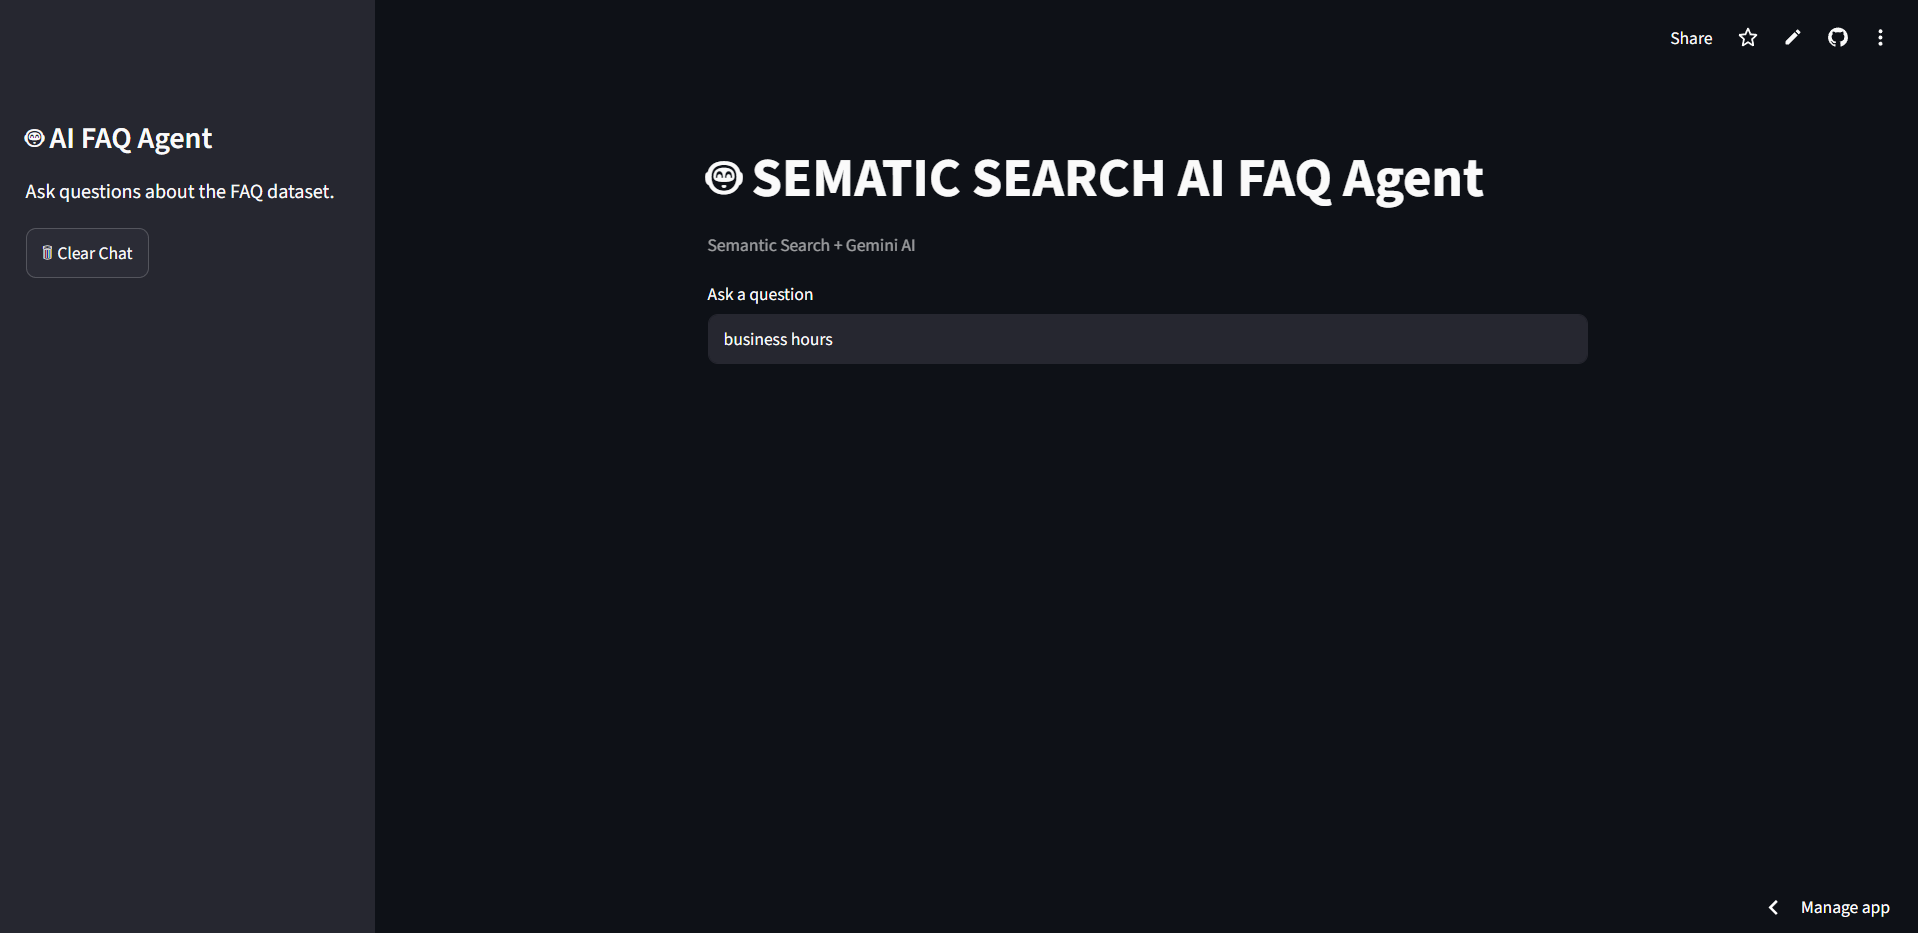
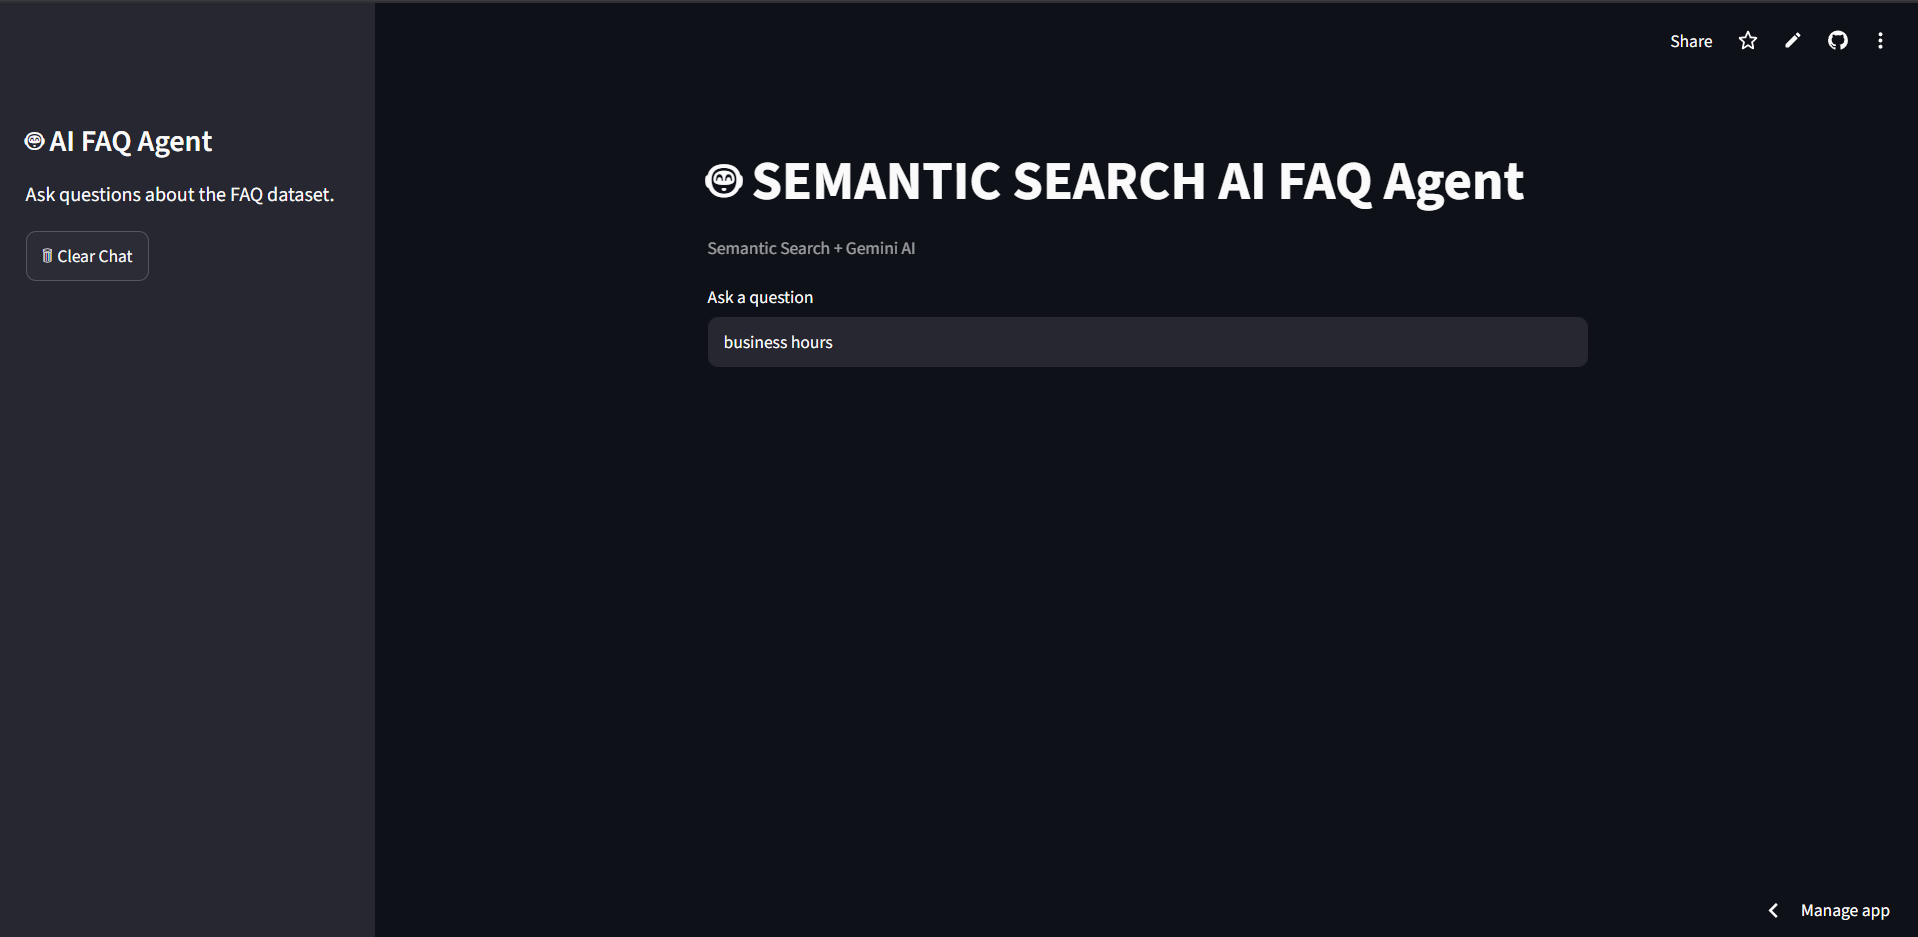
Improve README and add project screenshots

diff --git a/README.md b/README.md
@@ -18,7 +18,7 @@ https://ai-faq-agent-und9f2dmsgvf8w4xysxdyd.streamlit.app/
 
 ### Generated Response 
 
-![Question](Screenshots/Queries_results.png)
+![Question](Screenshots/Queries.png)
 
 
 
